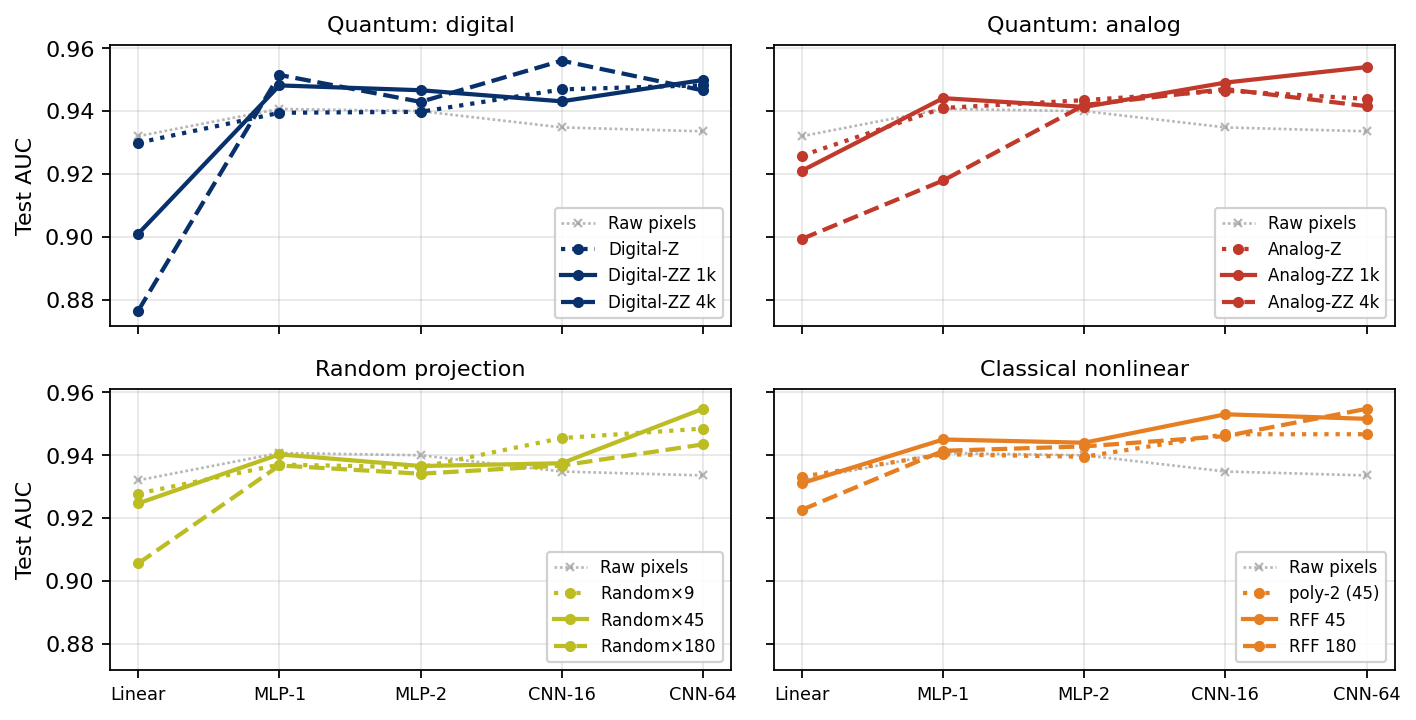
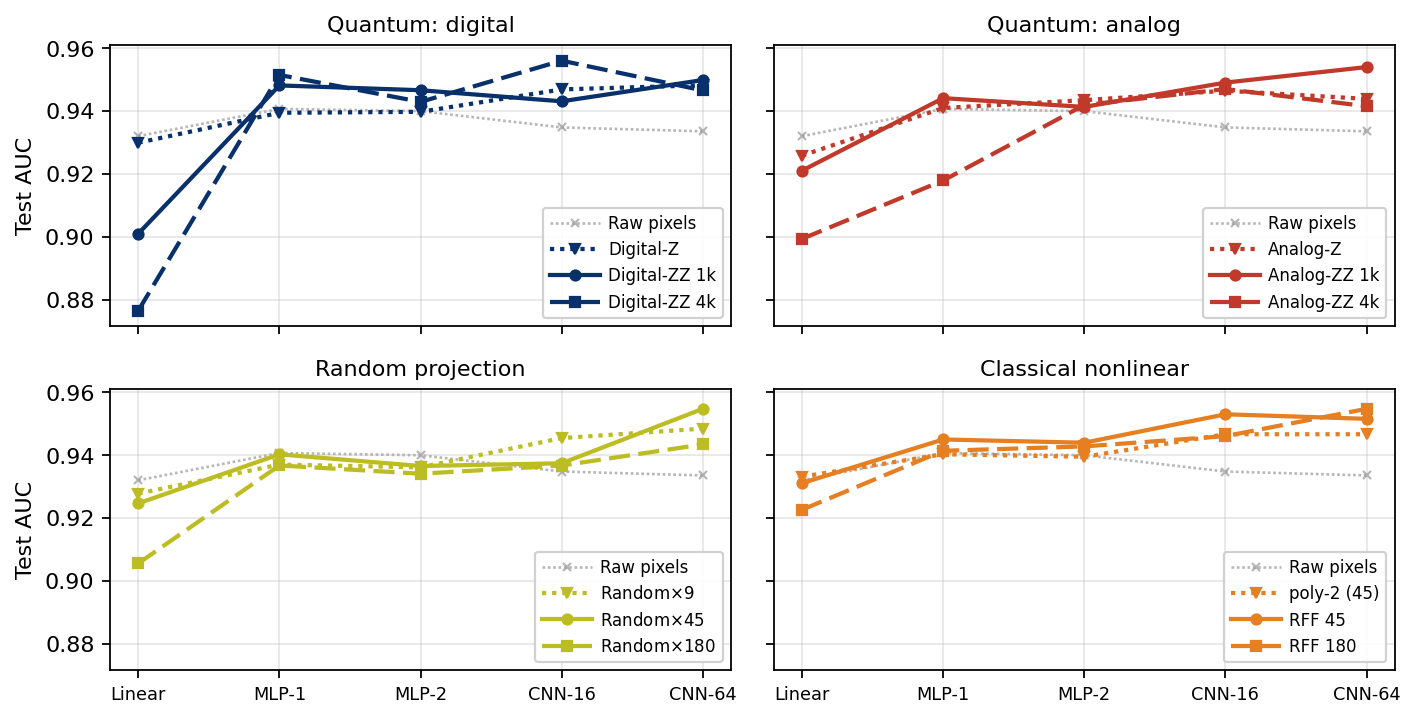
organization

diff --git a/experiments/plot_capacity_facets.py b/experiments/plot_capacity_facets.py
@@ -1,8 +1,8 @@
 """Small-multiples capacity-sweep figure: one mini-panel per source family, so
 all ~12 sources are visible without a 12-line tangle. Shared y-axis; raw pixels
 drawn faintly in every panel as a common cross-panel anchor. Within a panel,
-line style encodes scale (dotted = Z-only/9-dim, solid = single-kernel/45-dim,
-dashed = four-kernel/180-dim).
+scale is encoded by both line style and marker (dotted+triangle = smallest,
+solid+circle = single-kernel/45-dim, long-dash+square = four-kernel/180-dim).
 
 Usage: python experiments/plot_capacity_facets.py --csv <summary.csv> --out <png>
 """
@@ -15,24 +15,33 @@ import matplotlib.pyplot as plt
 HEADS = ["linear", "mlp1", "mlp2", "cnn_small", "cnn_large"]
 HLAB = ["Linear", "MLP-1", "MLP-2", "CNN-16", "CNN-64"]
 
-# (source, linestyle, label) per family panel; color is per-family
+# scale key -> (linestyle, marker). Each scale gets BOTH a distinct dash pattern
+# and a distinct marker shape, so the three same-colour lines in a panel stay
+# unambiguous even in a short legend handle (solid vs dashed alone reads poorly).
+SCALE_STYLE = {
+    "z":  ((0, (1, 1.4)), "v"),   # smallest scale  : dotted     + down-triangle
+    "1k": ("solid",       "o"),   # single-kernel/45: solid      + circle
+    "4k": ((0, (5, 2)),   "s"),   # four-kernel/180 : long-dashed + square
+}
+
+# (source, scale_key, label) per family panel; color is per-family
 PANELS = [
     ("Quantum: digital", "#08306b", [
-        ("digital_z_1k", ":", r"Digital-Z"),
-        ("digital_zz_1k", "-", r"Digital-ZZ 1k"),
-        ("digital_zz_4k", "--", r"Digital-ZZ 4k")]),
+        ("digital_z_1k",  "z",  r"Digital-Z"),
+        ("digital_zz_1k", "1k", r"Digital-ZZ 1k"),
+        ("digital_zz_4k", "4k", r"Digital-ZZ 4k")]),
     ("Quantum: analog", "#c0392b", [
-        ("analog_z_1k", ":", r"Analog-Z"),
-        ("analog_zz_1k", "-", r"Analog-ZZ 1k"),
-        ("analog_zz_4k", "--", r"Analog-ZZ 4k")]),
+        ("analog_z_1k",  "z",  r"Analog-Z"),
+        ("analog_zz_1k", "1k", r"Analog-ZZ 1k"),
+        ("analog_zz_4k", "4k", r"Analog-ZZ 4k")]),
     ("Random projection", "#bcbd22", [
-        ("random_9", ":", r"Random$\times$9"),
-        ("random_45", "-", r"Random$\times$45"),
-        ("random_180", "--", r"Random$\times$180")]),
+        ("random_9",   "z",  r"Random$\times$9"),
+        ("random_45",  "1k", r"Random$\times$45"),
+        ("random_180", "4k", r"Random$\times$180")]),
     ("Classical nonlinear", "#e67e22", [
-        ("poly2_45", ":", r"poly-2 (45)"),
-        ("rff_45", "-", r"RFF 45"),
-        ("rff_180", "--", r"RFF 180")]),
+        ("poly2_45", "z",  r"poly-2 (45)"),
+        ("rff_45",   "1k", r"RFF 45"),
+        ("rff_180",  "4k", r"RFF 180")]),
 ]
 
 
@@ -66,13 +75,16 @@ def main():
         # common anchor: raw pixels, faint gray
         ax.plot(x, raw, color="#999999", ls=(0, (1, 1)), lw=1.2, alpha=0.7,
                 marker="x", markersize=4, label="Raw pixels", zorder=1)
-        for src, style, lab in lines:
-            ax.plot(x, series(d, src), color=color, ls=style, lw=1.9,
-                    marker="o", markersize=4, label=lab, zorder=3)
+        for src, scale, lab in lines:
+            ls, mk = SCALE_STYLE[scale]
+            ax.plot(x, series(d, src), color=color, ls=ls, lw=1.9,
+                    marker=mk, markersize=4.5, label=lab, zorder=3)
         ax.set_title(title, fontsize=10)
         ax.set_ylim(ylo, yhi)
         ax.grid(alpha=0.3)
-        ax.legend(fontsize=7.5, loc="lower right", framealpha=0.9)
+        # longer handle so the dash patterns are visible, not just the marker
+        ax.legend(fontsize=7.5, loc="lower right", framealpha=0.9,
+                  handlelength=3.0, handletextpad=0.5)
     for ax in axes[1]:
         ax.set_xticks(x); ax.set_xticklabels(HLAB, fontsize=8)
     for ax in axes[:, 0]:

diff --git a/docs/paper/paper.tex b/docs/paper/paper.tex
@@ -722,11 +722,13 @@ by feature family (quantum-digital, quantum-analog, random projection,
 and classical nonlinear maps).
 All panels share the $y$-axis, and raw pixels are drawn faintly in each
 as a common cross-panel reference.
-Within a panel, line style encodes scale: dotted is the single-qubit
-$\langle Z\rangle$-only source ($9$ features per patch), solid is the
-single-kernel $\langle ZZ\rangle$ source ($45$), and dashed is the
-four-kernel source ($180$); for the random family dotted/solid/dashed
-are $9$/$45$/$180$ projections.
+Within a panel, scale is encoded by both marker and line style: a
+down-triangle on a dotted line is the single-qubit $\langle Z\rangle$-only
+source ($9$ features per patch), a circle on a solid line is the
+single-kernel $\langle ZZ\rangle$ source ($45$), and a square on a dashed
+line is the four-kernel source ($180$). The random and classical-nonlinear
+families reuse the same three styles for their $9$/$45$/$180$ and
+$45$/$45$/$180$ variants, respectively.
 Heads are ordered by expressivity from Linear to CNN-$64$; each point is
 a $10$-seed mean over per-feature standardized inputs.
 Every quantum and classical source converges to the same band as head
